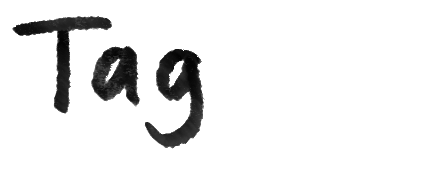
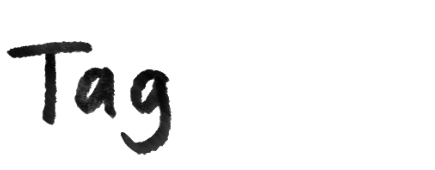
minor mods - fonts, graphics sizes, scrolly split last text card

Changed region(s): [[0.0, 0.0882, 0.4782, 0.9118]]

diff --git a/src/lib/components/ImageEmbed.svelte b/src/lib/components/ImageEmbed.svelte
@@ -75,19 +75,19 @@
     <figure class="full-bleed" style="margin-top: 6rem; margin-bottom: 3rem;">
       <img src={finalSrc} alt={finalAlt} class="img-fluid border"/>
       {#if caption}
-        <figcaption class="mt-2 text-muted text-left" style="font-family: Azeret Mono, monospace; font-size: small; margin-left: 2rem;">{caption}</figcaption>
+        <figcaption class="mt-2 text-muted text-left" style="font-size: small; margin-left: 2rem;">{caption}</figcaption>
       {/if}
     </figure>
 
   {:else if size === 'large'}
     <!-- svelte-ignore a11y_figcaption_parent -->
-    <figure class="my-3 full-bleed">
-      <div class="container-fluid">
+    <figure class="my-3 full-bleed" >
+      <div class="container-fluid" style="margin-top: 3rem; margin-bottom: 3rem;">
         <div class="row justify-content-center">
           <div class="col-12 col-lg-10 col-xxl-8">
-            <img src={finalSrc} alt={finalAlt} class="img-fluid border" loading="lazy" />
+            <img src={finalSrc} alt={finalAlt} class="img-fluid" loading="lazy" />
             {#if caption}
-              <figcaption class="mt-2 text-muted text-left" style="font-family: Azeret Mono, monospace; font-size: small;">{caption}</figcaption>
+              <figcaption class="mt-2 text-muted text-left" style="font-size: small;">{caption}</figcaption>
             {/if}
           </div>
         </div>
@@ -161,25 +161,29 @@
 
   .img-margin--left {
     float: left;
-    width: 45%;
-    margin-top: 5%;
-    margin-left: -290px; /* pushes into left margin */
-    margin-right: 2rem;
+    width: 70%;
+    margin-top: -1%;
+    margin-left: -300px; /* pushes into left margin */
+    margin-right: 1rem;
+    margin-bottom: -7%;
   }
 
   .img-margin--right {
     float: right;
-    margin-right: -250px; /* pushes into right margin */
-    margin-left: -2rem;
-    margin-top: -3rem;
+    width: 87%;
+    margin-right: -360px; /* pushes into right margin */
+    margin-left: -1rem;
+    margin-top: -7%;
+    margin-bottom: -20%;
   }
 
   .img-margin--bird {
     float: right; /* or whatever positioning you want */
-    margin-right: -225px;
-    margin-left: 1.95rem;
-    margin-top: -3rem;
-    width: 50%;
+    margin-right: -345px;
+    margin-left: 1rem;
+    margin-top: -9.2rem;
+    margin-bottom: -4rem;
+    width: 75%;
   }
 
   .img-margin img {
@@ -188,7 +192,7 @@
     display: block;
   }
 
-  @media (max-width: 992px) {
+  @media (max-width: 1300px) {
     .img-margin {
       float: none;
       margin: 1rem auto;

diff --git a/src/lib/components/AnimationsDesktop.svelte b/src/lib/components/AnimationsDesktop.svelte
@@ -759,18 +759,18 @@
   /* ── Caption ───────────────────────────────────────────── */
   .caption {
     position: absolute;
-    bottom: 44%;
+    bottom: 43%;
     left: 26.5%;
     transform: translateX(-50%);
     color: white;
-    font-family: 'Azeret Mono', monospace;
-    font-size: 2rem;
-    font-weight: 550;
+    font-family: "lumios-typewriter-new", elegant typewriter light, monospace;
+    font-size: 2.15rem;
+    font-weight: 600;
     text-align: left;
     max-width: 40%;
     padding: 0.5rem 1rem;
     animation: fadeIn 0.77s ease;
-    line-height: 2rem;
+    line-height: 3rem;
     z-index: 2;
   }
 
@@ -809,10 +809,10 @@
 
   .overlay-text {
     color: rgb(0, 0, 0);
-    font-family: 'Azeret Mono', monospace;
-    font-size: 1.5rem;
-    font-weight: 300;
-    line-height: 1.8rem;
+    font-family: "lumios-typewriter-new", elegant typewriter light, monospace;
+    font-size: 1.65rem;
+    font-weight: 200;
+    line-height: 2.1rem;
     max-width: 40%;
     margin: 0;
   }
@@ -839,9 +839,9 @@
 
   .sub-caption {
     color: rgb(0, 0, 0);
-    font-family: 'Azeret Mono', monospace;
+    font-family: Azeret Mono, monospace;
     font-size: 0.70rem;
-    font-weight: 300;
+    font-weight: 400;
     margin-top: 0.3rem;
     margin-left: 10%;
     text-align: left;
@@ -855,20 +855,20 @@
     flex-direction: column;
     align-items: center;
     justify-content: center;
-    margin-top: 5%;
+    margin-top: 8.5%;
   }
 
   .overlay-panel[data-block="three"] .overlay-text {
     text-align: left;
-    max-width: 50%;
+    max-width: 60%;
     z-index: 2;
   }
 
   .overlay-panel[data-block="three"] .overlay-image {
-    width: 25%;
+    width: 32%;
     object-fit: contain;
-    margin-top: -6rem;
-    margin-left: 55%;
+    margin-top: -10%;
+    margin-left: 62%;
     order: 2;
     z-index: 1;
   }

diff --git a/src/lib/components/ScrollySplit.svelte b/src/lib/components/ScrollySplit.svelte
@@ -165,8 +165,11 @@
 		const cardTop = lastCard.getBoundingClientRect().top + window.scrollY;
 
 		const currentSectionHeight = sectionEl.offsetHeight;
-		const lastCardHeight = lastCard.offsetHeight;
-		const neededSectionHeight = (cardTop - sectionTop) + window.innerHeight - (2 * videoTop) + (slideDistancePx * 0.15) + (lastCardHeight * -0.6);
+
+		// We want the last card's top to align with the top of the video
+		// at the moment the section unsticks (sectionBottom == vh).
+		// At that moment the card needs to be at videoBox.top in the viewport.
+		const neededSectionHeight = (cardTop - sectionTop) + window.innerHeight - videoTop;
 		const sentinelHeight = Math.max(0, neededSectionHeight - currentSectionHeight + sentinelEl.offsetHeight);
 
 		sentinelEl.style.height = sentinelHeight + 'px';
@@ -369,7 +372,7 @@
 		justify-content: flex-start;
 		gap: 1rem;
 		z-index: 2;
-		max-width: 280px;
+		max-width: 300px;
 	}
 
 	.split-header-img {
@@ -382,9 +385,9 @@
 
 	.split-subtext {
 		margin: 0;
-		font-size: 0.95rem;
-		line-height: 1.25;
-		font-family: Azeret Mono, monospace;
+		font-size: 1.01rem;
+		line-height: 1.4rem;
+		font-family: "lumios-typewriter-new", elegant typewriter light, monospace;
 		text-align: right;
 	}
 
@@ -490,7 +493,7 @@
 			text-align: right;
 			font-size: 0.95rem;
 			line-height: 1.25;
-			font-family: Azeret Mono, monospace;
+			font-family: Elegant Typewriter, serif;
 			margin: 0.5rem 0 0 0;
 		}
 
@@ -533,7 +536,7 @@
 			padding: 1.5rem;
 			font-size: 0.90rem;
 			line-height: 1.25;
-			font-family: Azeret Mono, monospace;
+			font-family: Elegant Typewriter, serif;
 		}
 
 		.split-header-col {

diff --git a/static/fonts/fonts.css b/static/fonts/fonts.css
@@ -157,3 +157,20 @@
   font-weight: 600;
   src: url('/fonts/azeret-mono/AzeretMono-Regular.ttf') format('ttf');
 }
+
+@font-face {
+  font-display: swap;
+  font-family: 'Elegant Typewriter';
+  font-style: normal;
+  font-weight: 400;
+  src: url('/fonts/elegant_typewriter/elegant-typewriter-regular.ttf') format('truetype');
+}
+
+@font-face {
+  font-display: swap;
+  font-family: 'Elegant Typewriter light';
+  font-style: normal;
+  font-weight: 200;
+  src: url('/fonts/elegant_typewriter/elegant-typewriter-light.ttf') format('truetype');
+}
+

diff --git a/src/lib/components/ScrollySplitStep.svelte b/src/lib/components/ScrollySplitStep.svelte
@@ -61,10 +61,10 @@
 	}
 
 	.step-body {
-		font-size: 0.90rem;
-		line-height: 1.25;
 		color: black;
-		font-family: Azeret Mono, monospace;
+		font-size: 1.01rem;
+		line-height: 1.4rem;
+		font-family: "lumios-typewriter-new", elegant typewriter light, monospace;
 	}
 
 	/* Force all headings inside step content to use the same font */
@@ -74,8 +74,8 @@
 	.step-body :global(h4),
 	.step-body :global(h5),
 	.step-body :global(h6) {
-		font-family: Azeret Mono, monospace;
-		font-weight: 600;
+		font-family: Elegant Typewriter Light, serif;
+		font-weight: 200;
 		margin-bottom: 1.5rem;
 	}
 

diff --git a/src/lib/components/FourTileCollage.svelte b/src/lib/components/FourTileCollage.svelte
@@ -198,12 +198,12 @@
     flex: 1;
     min-width: 0;
     margin: 0;
-    margin-left: 10rem;
+    margin-left: 8rem;
     margin-right: 2.5rem;
     margin-bottom: 1rem;
     padding: 0 8px 4px 0;
-    font-size: 0.85rem;
-    font-family: Azeret Mono, monospace;
+    font-size: 1.01rem;
+    font-family: "lumios-typewriter-new", elegant typewriter light, monospace;
     line-height: 1.6;
     text-align: left;
     align-self: flex-end;
@@ -281,7 +281,7 @@
     margin-bottom: 1rem;
   }
 
-  @media (max-width: 768px) {
+  @media (max-width: 1180px) {
     .collage-bleed {
       width: 100%;
       position: static;

diff --git a/src/lib/components/ThreeTileCollage.svelte b/src/lib/components/ThreeTileCollage.svelte
@@ -247,12 +247,12 @@
   }
 
   .caption {
-    margin: 2rem 13rem 0 5rem;
+    margin: 2rem 12rem 0 5rem;
     padding-left: 1.5rem;
     width: 100%;
     max-width: 60%;
-    font-size: 0.85rem;
-    font-family: Azeret Mono, monospace;
+    font-size: 1.01rem;
+    font-family: "lumios-typewriter-new", elegant typewriter light, monospace;
     line-height: 1.6;
     text-align: left;
   }
@@ -281,7 +281,7 @@
   }
 
   /* ── Mobile ── */
-  @media (max-width: 768px) {
+  @media (max-width: 1180px) {
     .collage-bleed {
       width: 100%;
       position: static;

diff --git a/src/lib/doc.cleaned.html b/src/lib/doc.cleaned.html
@@ -64,9 +64,9 @@
 <p>Despite their unassuming appearance &mdash; often distinguished by muted colors such as brown, white or gray to help them blend in with the landscape &mdash; these ground-dwelling birds are vital to the health and sustainability of the Great Plains, providing essential ecological services such as pest control, seed dispersal, nutrient cycling and pollination.</p>
 <p>More than half of the North American bird species dependent on grasslands for breeding are in steep decline. And those declines are accelerating, according to a <u><a href="https://www.science.org/doi/10.1126/science.ads0871" target="_blank" rel="noopener noreferrer">recent study</a></u>&nbsp;in the journal Science. </p>
 <p>The decrease in birds coincides with a dramatic change in open grasslands, which is being converted into farmland at a rate of nearly 800,000 acres per year, according to a Berkeley Journalism analysis of the U.S. Geological Survey National Land Cover Change data. As a result, over 30 million acres have been lost in the last four decades, which is roughly equivalent to the size of New York. </p>
-<p>[[ImageEmbed src=&quot;/illustrations/hornedlark-decline.png&quot; size=&quot;margin-left&quot; alt=&quot;The horned lark has declined by 61 percent since 1970.&quot;]]</p>
+<p>[[ImageEmbed src=&quot;/illustrations/hornedlark-decline.png&quot; size=&quot;margin-left&quot; alt=&quot;The horned lark has declined by 61 percent since 1970.&quot;]] </p>
 <p>Climate change and cuts to laws and governmental funding that protect birds and their habitats has exacerbated the downward trend of grassland bird populations. </p>
-<p>And because in the past scientists almost exclusively studied these species on their northern breeding grounds, a lack of understanding about the long distance movements and survival of grassland birds posed significant challenges in creating effective and long-lasting conservation practices. &nbsp;</p>
+<p>And because in the past scientists almost exclusively studied these species on their northern breeding grounds, a lack of understanding about the long distance movements and survival of grassland birds posed significant challenges in creating effective and long-lasting conservation practices. </p>
 <p>To address this, researchers started investing in a tracking system to fill in the gaps and help them to assess where to focus conservation efforts and how to strategically recover species.</p>
 <p>&ldquo;Grasslands are the lifeblood of the central part of the U.S. and if they disappear, then this landscape will be drastically altered,&rdquo; Brandt Ryder, chief conservation scientist at Bird Conservancy of the Rockies, said. </p>
 <p>[[FourTileCollage</p>
@@ -107,7 +107,7 @@
 <p>Despite being among the most endangered ecosystems in the U.S., grasslands are the <u><a href="https://www.fws.gov/program/central-grasslands-conservation" target="_blank" rel="noopener noreferrer">least protected</a></u>, according to the U.S. Fish and Wildlife Service. <u><a href="https://www.fws.gov/program/central-grasslands-conservation/about-us#:~:text=Grasslands%20are%20being%20lost%20at,species%20%2C%20compounded%20by%20climate%20change" target="_blank" rel="noopener noreferrer">Sixty-two percent</a></u>&nbsp;of the North American grassland biome has been lost due to agricultural conversion, woody-plant invasion, drought and other climate change-related stressors. </p>
 <p>&ldquo;Most people think of grasslands as a wasteland. They think if we need to protect something, we should be protecting the rainforest,&rdquo; Ryder said. &ldquo;But grasslands probably are more important in many ways than the rainforest for many reasons.&rdquo; </p>
 <p>One of those reasons being that most of the nation&rsquo;s food comes from grasslands. Roughly a <u><a href="https://www.climatehubs.usda.gov/hubs/northern-plains/topic/focus-croplands-northern-plains#:~:text=Breadcrumb,due%20to%20the%20Ogallala%20aquifer." target="_blank" rel="noopener noreferrer">quarter</a></u>&nbsp;of all U.S. crops and half of the country&rsquo;s <u><a href="https://plainshumanities.unl.edu/encyclopedia/doc/egp.ag.019.html" target="_blank" rel="noopener noreferrer">beef cattle</a></u>&nbsp;are grown in the Great Plains, creating tension between birds and the country&#39;s agricultural needs. </p>
-<p>[[ImageEmbed src=&quot;/illustrations/grassland-map.png&quot; size=&quot;fit&quot; caption=&quot;Source: Annual National Land Cover Change data, U.S. Geological Survey, 2024.&quot; alt=&quot;Map of the Great Plains region with what grasslands remain.&quot;]]</p>
+<p>[[ImageEmbed src=&quot;/illustrations/grassland-map.png&quot; size=&quot;large&quot; caption=&quot;Source: Annual National Land Cover Change data, U.S. Geological Survey, 2024.&quot; alt=&quot;Map of the Great Plains region with what grasslands remain.&quot;]]</p>
 <p>Continued loss of this land would reduce carbon sequestration, diminish pollinator habitat and reduce soil quality and moisture retention. This has lasting implications not only for birds, but also for the U.S. food supply, as worsening environmental conditions will negatively impact crop yields. </p>
 <p>As climate change triggers rising temperatures, shifts in precipitation patterns and more frequent extreme weather events such as drought and wildfires, the loss of healthy grasslands for birds and agriculture falls into an intensifying spiral that could result in a modern day Dust Bowl. </p>
 <p>&ldquo;Grasslands are essential for the economic livelihoods of millions of people across this geography and so we have all these reasons why we need to protect and restore them,&rdquo; Ryder said.</p>
@@ -137,7 +137,7 @@
 <p>But despite these hardships, Bird Conservancy weathered the storm and its mission has remained unchanged. While much of the staff had to work on three-quarters time during the shutdown, the organization managed to avoid layoffs, retained their programs and successfully incurred its largest fundraising campaign ever last year. </p>
 <p>&ldquo;It&#39;s a big challenge to try to do work as a bird conservation organization, to try to reverse or even stall bird population declines,&rdquo; Reese said. &ldquo;It&#39;s hard to get enough funding to do the research and conservation work that we want to, and there&#39;s a lot of competing land uses that we&#39;re not going to be able to change.&rdquo; </p>
 <p>As a way of navigating these obstacles to continue their conservation efforts, the organization works closely with private ranchers across the Great Plains region.</p>
-<p>[[ImageEmbed src=&quot;/images/cows.JPG&quot; size=&quot;full&quot; alt=&quot;Cows on Switzer Ranch, Loup County, Nebraska.&quot; caption=&quot;Cows on Switzer Ranch, Loup County, Nebraska. Photo courtesy of Sarah Sortum.&quot;]]</p>
+<p>[[ImageEmbed src=&quot;/images/cows.JPG&quot; size=&quot;large&quot; alt=&quot;Cows on Switzer Ranch, Loup County, Nebraska.&quot; caption=&quot;Cows on Switzer Ranch, Loup County, Nebraska. Photo courtesy of Sarah Sortum.&quot;]]</p>
 <p><strong>Good for the bird</strong></p>
 <p>While ranching and farming have contributed to the loss of grasslands, it is also a crucial part of the solution moving forward.</p>
 <p>Across the Great Plains, several conservation organizations are working with ranchers and farmers to implement management strategies that help birds and the land. Though once at odds, thousands of ranchers and farmers have assisted in the maintenance and restoration of healthy grasslands. &nbsp;</p>

diff --git a/src/lib/components/VideoEmbed.svelte b/src/lib/components/VideoEmbed.svelte
@@ -302,7 +302,7 @@
         </div>
       </div>
       {#if caption}
-        <figcaption class="mt-2 text-muted text-center" style="font-family: Azeret Mono, monospace; font-size: small;">{caption}</figcaption>
+        <figcaption class="mt-2 text-muted text-center" style="font-size: small;">{caption}</figcaption>
       {/if}
     </figure>
 
@@ -339,7 +339,7 @@
         </div>
         {#if caption}
           <!-- svelte-ignore a11y_figcaption_parent -->
-          <figcaption class="mt-2 text-muted text-left" style="font-family: Azeret Mono, monospace; font-size: small; margin-left: 1rem;">{caption}</figcaption>
+          <figcaption class="mt-2 text-muted text-left" style='font-family: "lumios-typewriter-new", elegant typewriter light, monospace; font-size: small; margin-left: 0.5rem;'>{caption}</figcaption>
         {/if}
       </div>
     </figure>

diff --git a/src/lib/components/AnimationsMobile.svelte b/src/lib/components/AnimationsMobile.svelte
@@ -408,7 +408,7 @@
   .caption-row--caption-four { top: 15%; }
 
   .caption-text {
-    font-family: 'Azeret Mono', monospace;
+    font-family: "lumios-typewriter-new", elegant typewriter light, monospace;
     font-weight: 400;
     white-space: normal;
     overflow-wrap: break-word;

diff --git a/src/app.html b/src/app.html
@@ -5,6 +5,7 @@
 		<meta name="viewport" content="width=device-width, initial-scale=1" />
 		<link rel="stylesheet" href="%sveltekit.assets%/fonts/fonts.css" />
 		<link rel="preload" as="image" href="%sveltekit.assets%/animation/first-frame.jpg" />
+		<link rel="stylesheet" href="https://use.typekit.net/fin7qjo.css">
 		<title>Bye Bye Birdies</title>
 		<style>
 			#app-loader {

diff --git a/src/routes/+layout.svelte b/src/routes/+layout.svelte
@@ -18,6 +18,7 @@
 
 <svelte:head>
 	<link rel="icon" href={favicon} />
+  	<link rel="stylesheet" href="https://use.typekit.net/fin7qjo.css">
 </svelte:head>
 
 <ProgressBar />